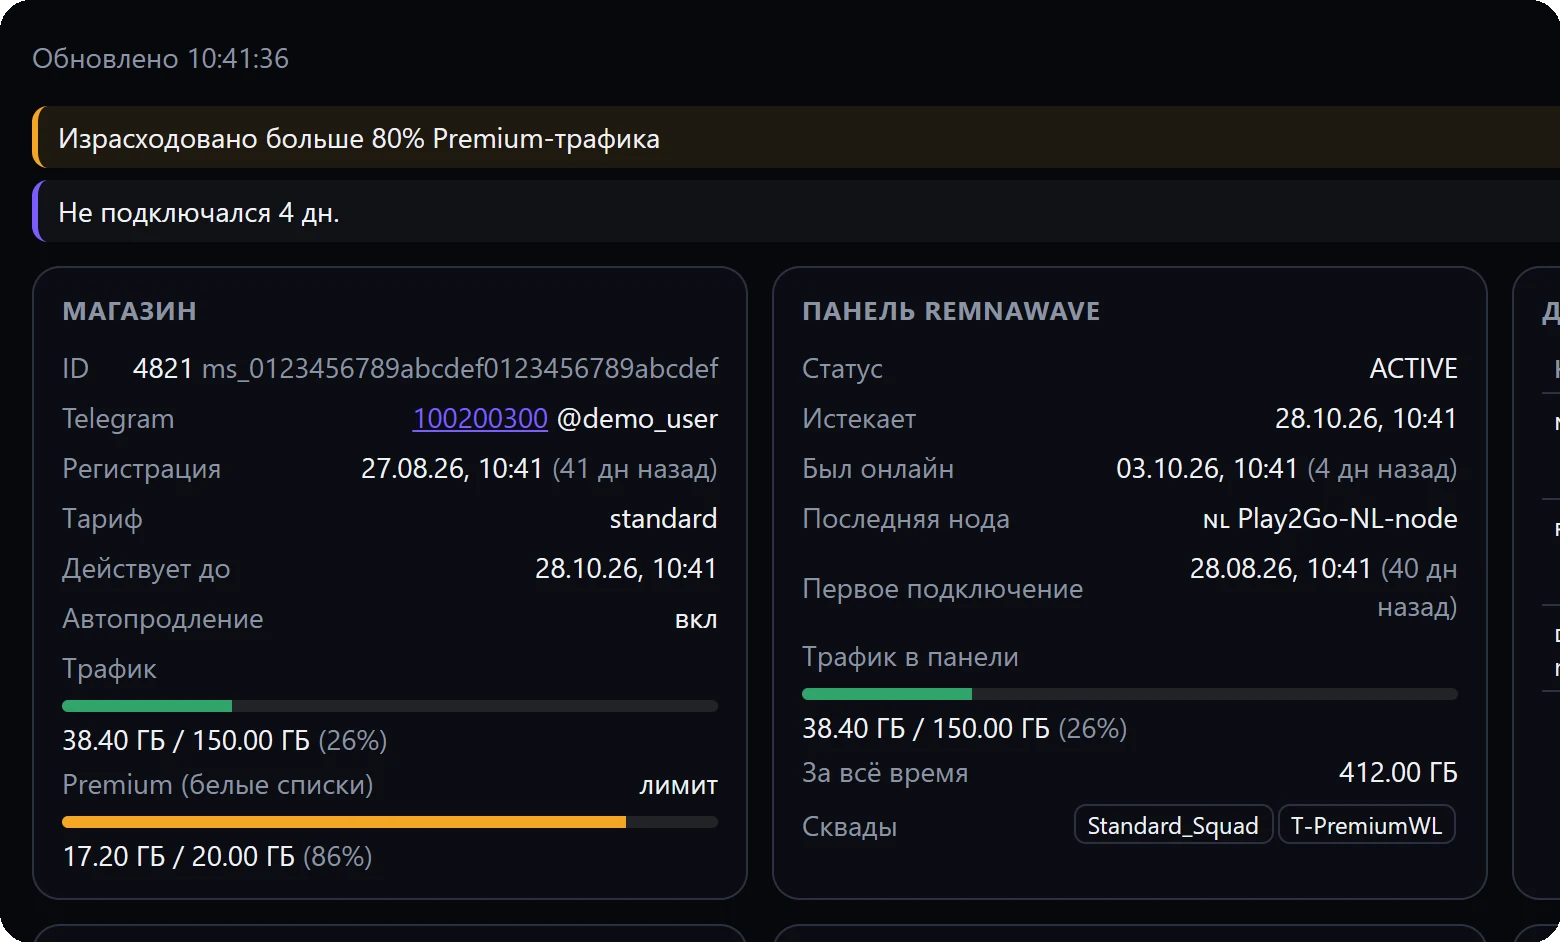
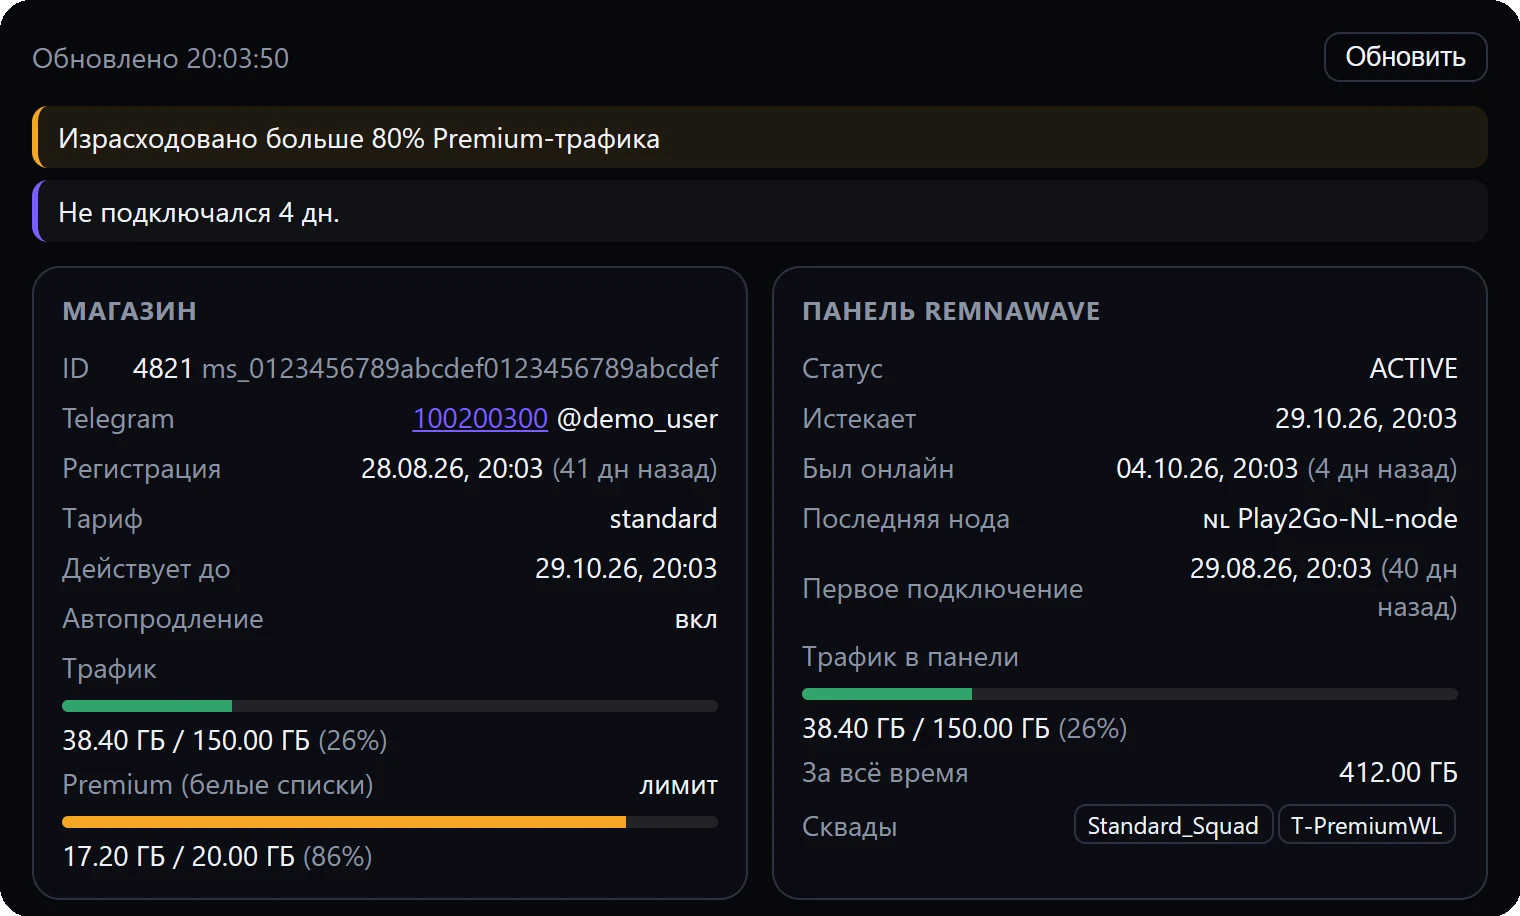
docs: complete screenshot of the hints, shop and panel cards

diff --git a/README.md b/README.md
@@ -28,9 +28,9 @@
 
 [![Вкладка «Диагностика»](docs/screenshots/user-card.webp)](docs/screenshots/user-card.webp)
 
-| Подсказки и данные магазина | На телефоне |
+| Подсказки, магазин и панель Remnawave | На телефоне |
 | :---: | :---: |
-| <img src="docs/screenshots/warnings-and-shop.webp" width="520" alt="Подсказки и данные магазина"> | <img src="docs/screenshots/mobile.webp" width="260" alt="Мобильная вёрстка"> |
+| <img src="docs/screenshots/warnings-and-shop.webp" width="520" alt="Подсказки, магазин и панель Remnawave"> | <img src="docs/screenshots/mobile.webp" width="260" alt="Мобильная вёрстка"> |
 
 На скриншотах вымышленный пользователь.
 
